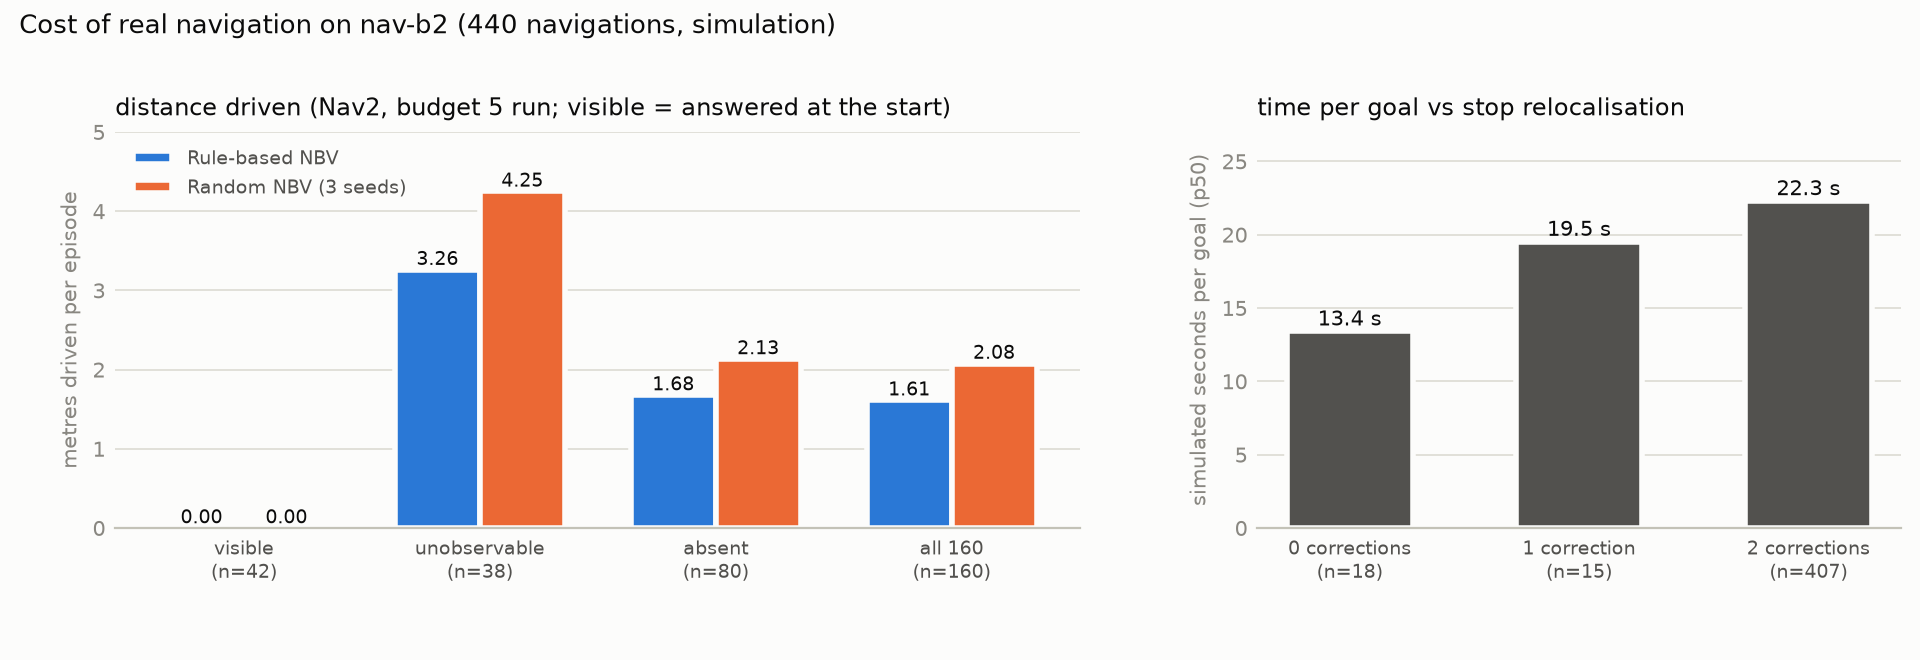
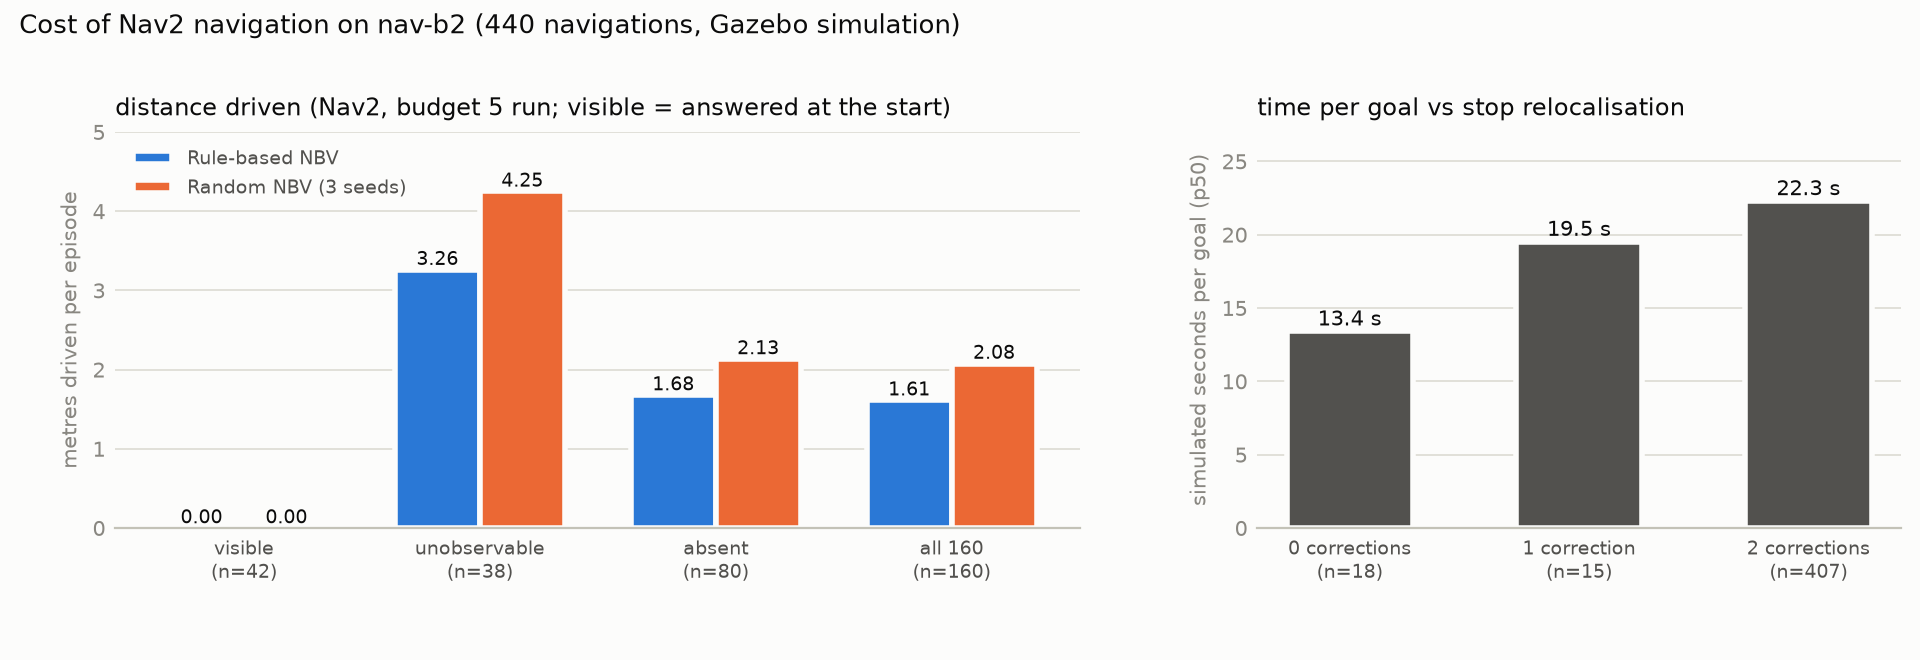
docs: say Nav2 in Gazebo (simulation) in two figure titles
Two README figures still called the simulated Nav2 runs "real navigation"
in their titles, although the README text already says "Nav2 in Gazebo".

- tools/make_figures.py: the two suptitle strings only.
- docs/figures/nav_teleport_vs_nav2.png, docs/figures/nav_cost.png:
  regenerated with tools/make_figures.py in the locked environment. On a
  clean clone every other figure regenerates bit-identical, so only these
  two change. No result, data, decision log or sealed file changed.

Changed region(s): [[0.0625, 0.0, 0.5, 0.0606]]

diff --git a/tools/make_figures.py b/tools/make_figures.py
@@ -349,7 +349,7 @@ def nav_teleport_vs_nav2(report: dict) -> None:
     axes[0].set_ylabel("3-class accuracy (nav-b2)", color=MUTED)
     axes[1].legend(loc="lower right", frameon=False, fontsize=7.5, labelcolor=INK2)
     fig.suptitle(
-        f"Same {report['episodes']} nav-b2 episodes: teleport vs real navigation (Nav2)",
+        f"Same {report['episodes']} nav-b2 episodes: teleport vs Nav2 in Gazebo (simulation)",
         x=0.01,
         ha="left",
         fontsize=10,
@@ -610,7 +610,7 @@ def nav_cost(fa: dict, states: dict[str, str]) -> None:
     ax.set_title("time per goal vs stop relocalisation", fontsize=8.5, color=INK, loc="left")
     ax.set_ylim(0, 27)
     fig.suptitle(
-        f"Cost of real navigation on nav-b2 ({r['navigations']} navigations, simulation)",
+        f"Cost of Nav2 navigation on nav-b2 ({r['navigations']} navigations, Gazebo simulation)",
         x=0.01,
         ha="left",
         fontsize=9.5,
